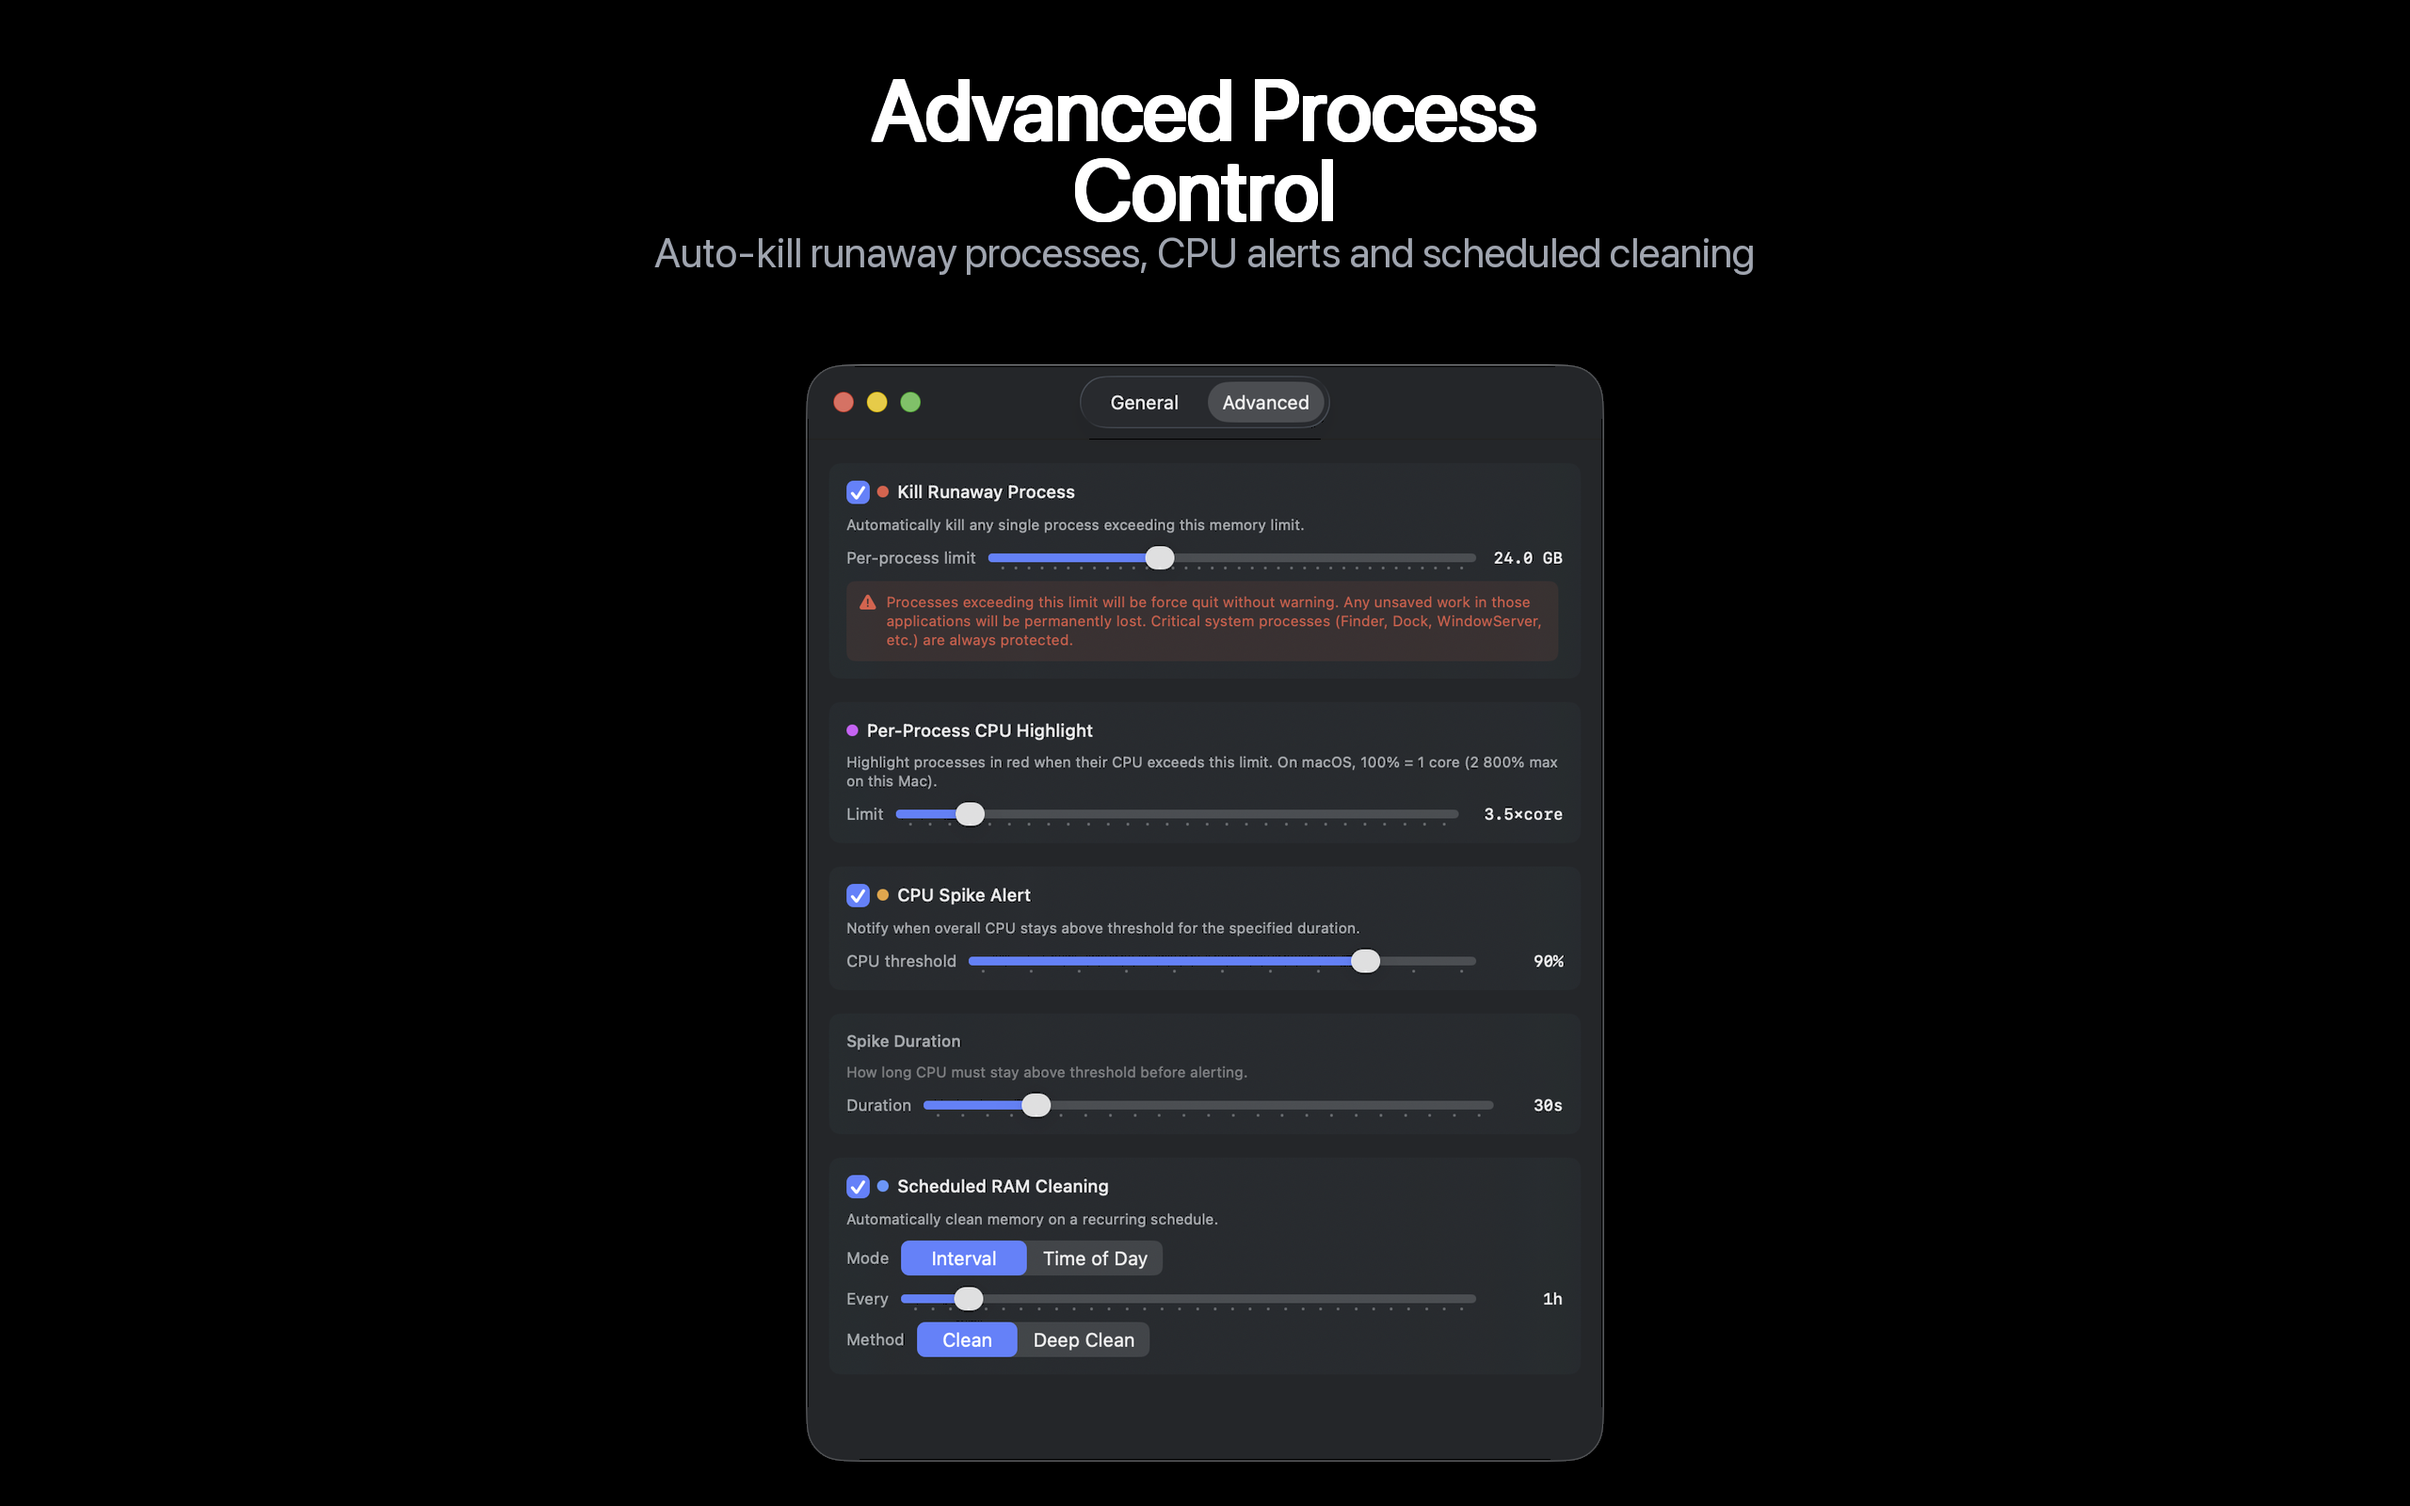
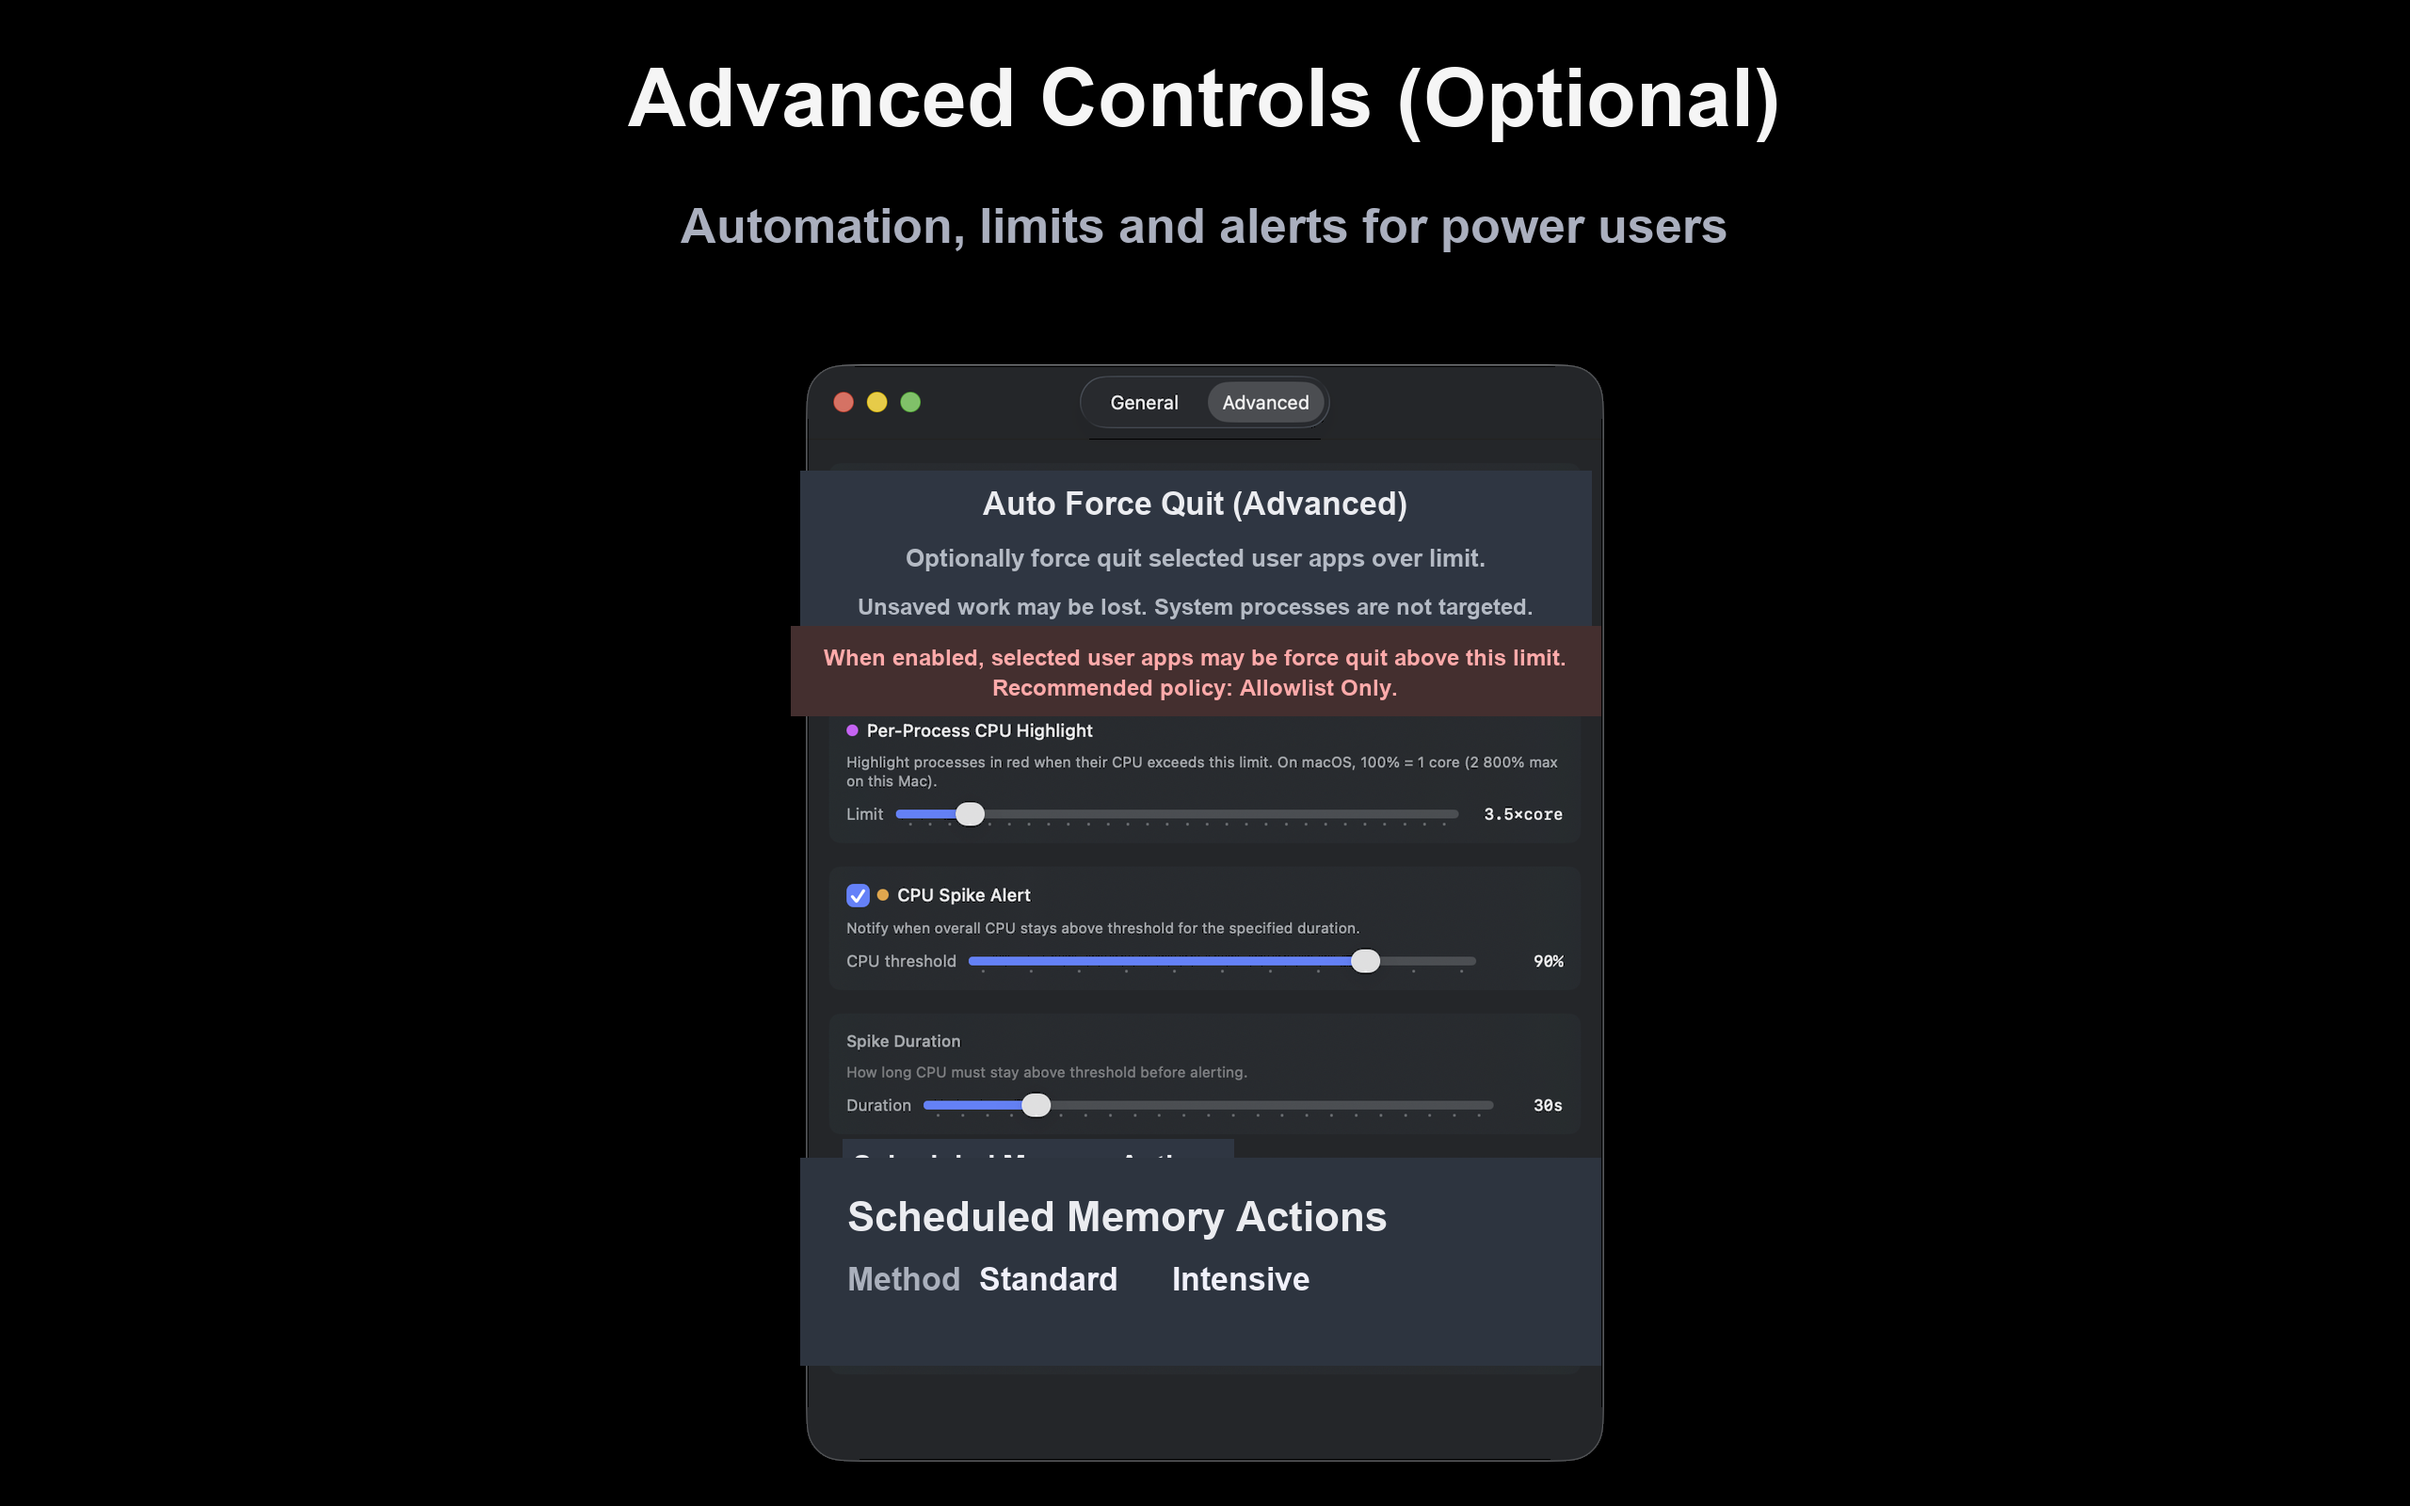
Update homepage screenshot gallery with latest App Store set

Changed region(s): [[0.3125, 0.3125, 0.6875, 0.5], [0.25, 0.0312, 0.75, 0.1875], [0.3438, 0.75, 0.5938, 0.9062]]

diff --git a/index.html b/index.html
@@ -112,7 +112,10 @@
             <p class="section-subtitle animate-in">From the menu bar to the full dashboard, every detail is designed for clarity.</p>
 
             <div class="screenshot-gallery">
-                <img src="images/screenshot-dashboard.png" alt="Complete system dashboard with CPU, memory, and GPU gauges" class="animate-in screenshot-wide" loading="lazy" width="800">
+                <img src="images/screenshot-menu.png" alt="Menu bar panel with system status, memory actions, and top processes" class="animate-in screenshot-wide" loading="lazy" width="800">
+                <img src="images/screenshot-dashboard.png" alt="Complete system dashboard with CPU, memory, and GPU metrics" class="animate-in" loading="lazy" width="800">
+                <img src="images/screenshot-general.png" alt="General settings showing notifications and low memory automation options" class="animate-in" loading="lazy" width="800">
+                <img src="images/screenshot-advanced.png" alt="Advanced settings showing Auto Force Quit, CPU alerts, and scheduled actions" class="animate-in" loading="lazy" width="800">
             </div>
         </div>
     </section>
